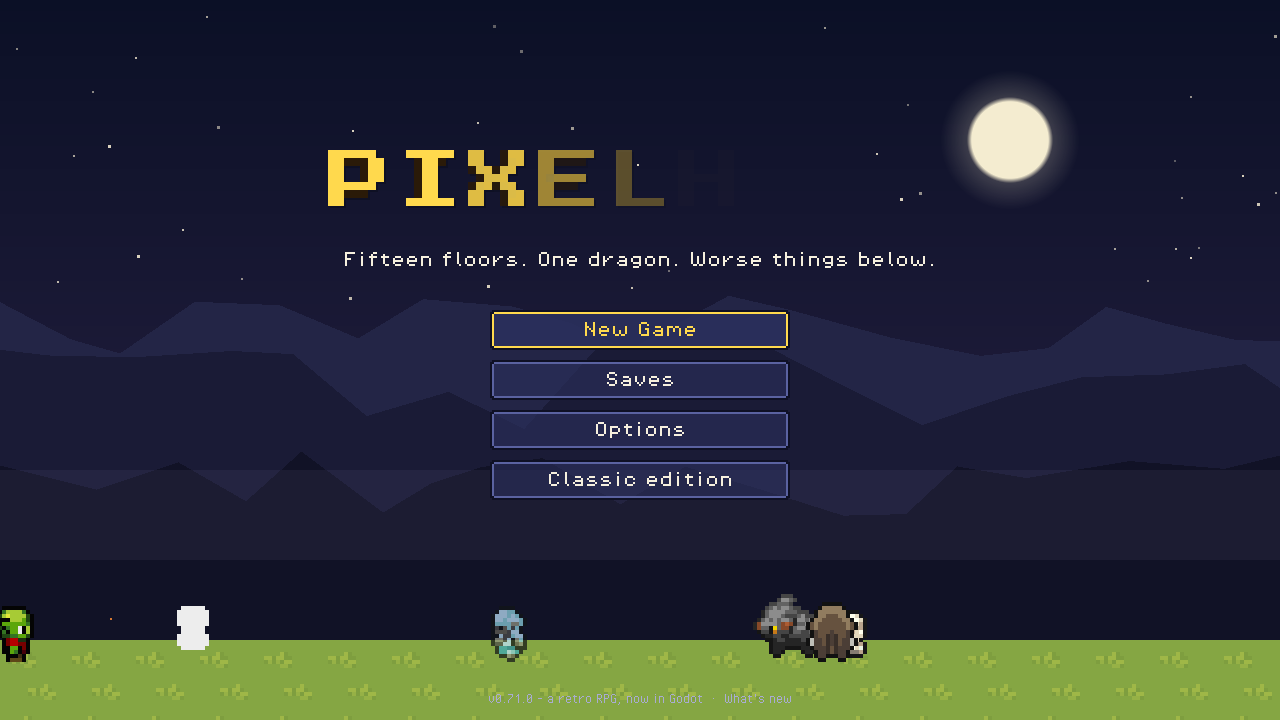
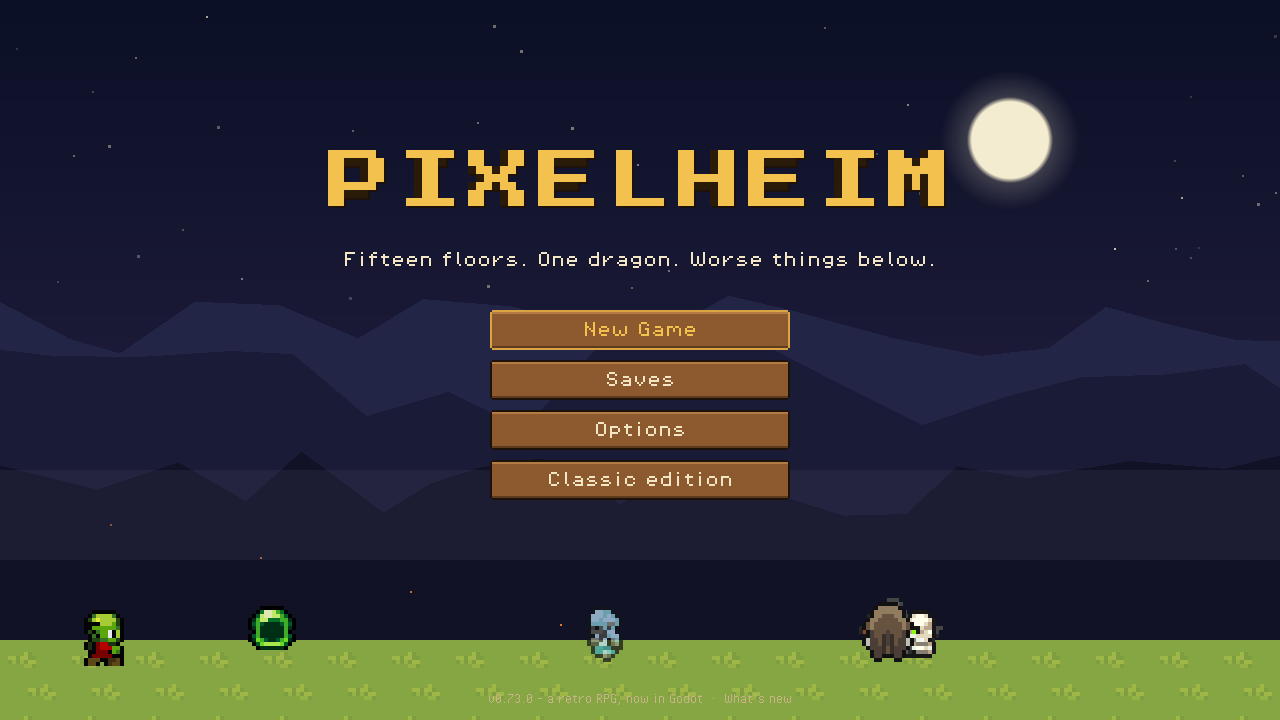
docs: v0.73 The Village Ledger - the UI in wood and parchment, the dock along the bottom, screens that ease in with the sound of turning pages; the README's title shot re-taken whole (the harness can now hold a shot with --wait)

diff --git a/src/app/changelog.ts b/src/app/changelog.ts
@@ -11,6 +11,17 @@ export type Release = {
  */
 export const CHANGELOG: Release[] = [
   {
+    version: "0.73.0",
+    date: "2026-10-08",
+    codename: "The Village Ledger",
+    notes: [
+      "A NEW FACE FOR EVERY SCREEN: parchment pages in carved wooden frames with brass studs, ink on the page, rubric red for whatever has your attention, and wooden planks for buttons that light brass when chosen",
+      "THE DOCK: your portrait, health and energy, six skill slots and your gold now sit in one wooden dock along the bottom, with experience as a gold line across its top - the rest of the screen is the world; its Menu lists every screen with its key and lights up when points are waiting",
+      "PAGES THAT TURN: screens ease in as they open, with a swish of paper, a pen's tick as your choice moves and a soft close (Reduce motion makes them appear at once)",
+      "Easier to read: lists sit on pages instead of the dimmed world, fine and epic gear wear their colours in ink, and the battle log floats clear above the dock",
+    ],
+  },
+  {
     version: "0.72.0",
     date: "2026-10-07",
     codename: "Stone and Water",

diff --git a/README.md b/README.md
@@ -6,7 +6,7 @@
 
 <p align="center">
   <b>A retro pixel-art open-world RPG in Godot 4.7: one hero, one village, fifteen floors of a mountain and what lies under it.</b><br />
-  Fifteen floors. Two bosses. Infinite cheese wheels. Currently v0.72 - 1.0 has to be earned.
+  Fifteen floors. Two bosses. Infinite cheese wheels. Currently v0.73 - 1.0 has to be earned.
 </p>
 
 ---
@@ -32,6 +32,7 @@ You wake in Pixelheim village, in an open world called **the Ashenreach**: walk 
 - **Crafting** at the forge, the cauldron and your own workbench; foraging in the wilds
 - **Music, stingers and weather** for every place, rendered from the game's own chiptune synth
 - **Saves that never break**: three slots, autosave, save codes, and heroes brought over from the classic edition byte for byte
+- **A UI like a village ledger**: parchment pages in carved wooden frames, a wooden dock along the bottom with your bars, skills and gold, and screens that ease in with the sound of turning paper
 - **Comfort**: rebindable keys, gamepad, options from the title, reduced motion, CRT scanlines, a fog-of-war map with fast travel
 
 | The village                                | Inside                          |

diff --git a/godot/README.md b/godot/README.md
@@ -95,6 +95,8 @@ godot --path godot -- --screenshot --map town portal  # walk into the nearest do
 godot --path godot -- --screenshot die                # fall, then wake at the inn
 godot --path godot -- --screenshot title splash       # the title as the boot splash
 godot --path godot -- --screenshot title options     # options over the title, before any hero
+godot --path godot -- --screenshot title --wait 2.5    # hold the shot (the title's logo still dropping in)
+godot --path godot -- --screenshot dockmenu           # the dock's menu of screens, open
 ```
 
 The final `print` line reports current map id, hero cell, HP and gold for assertions.
